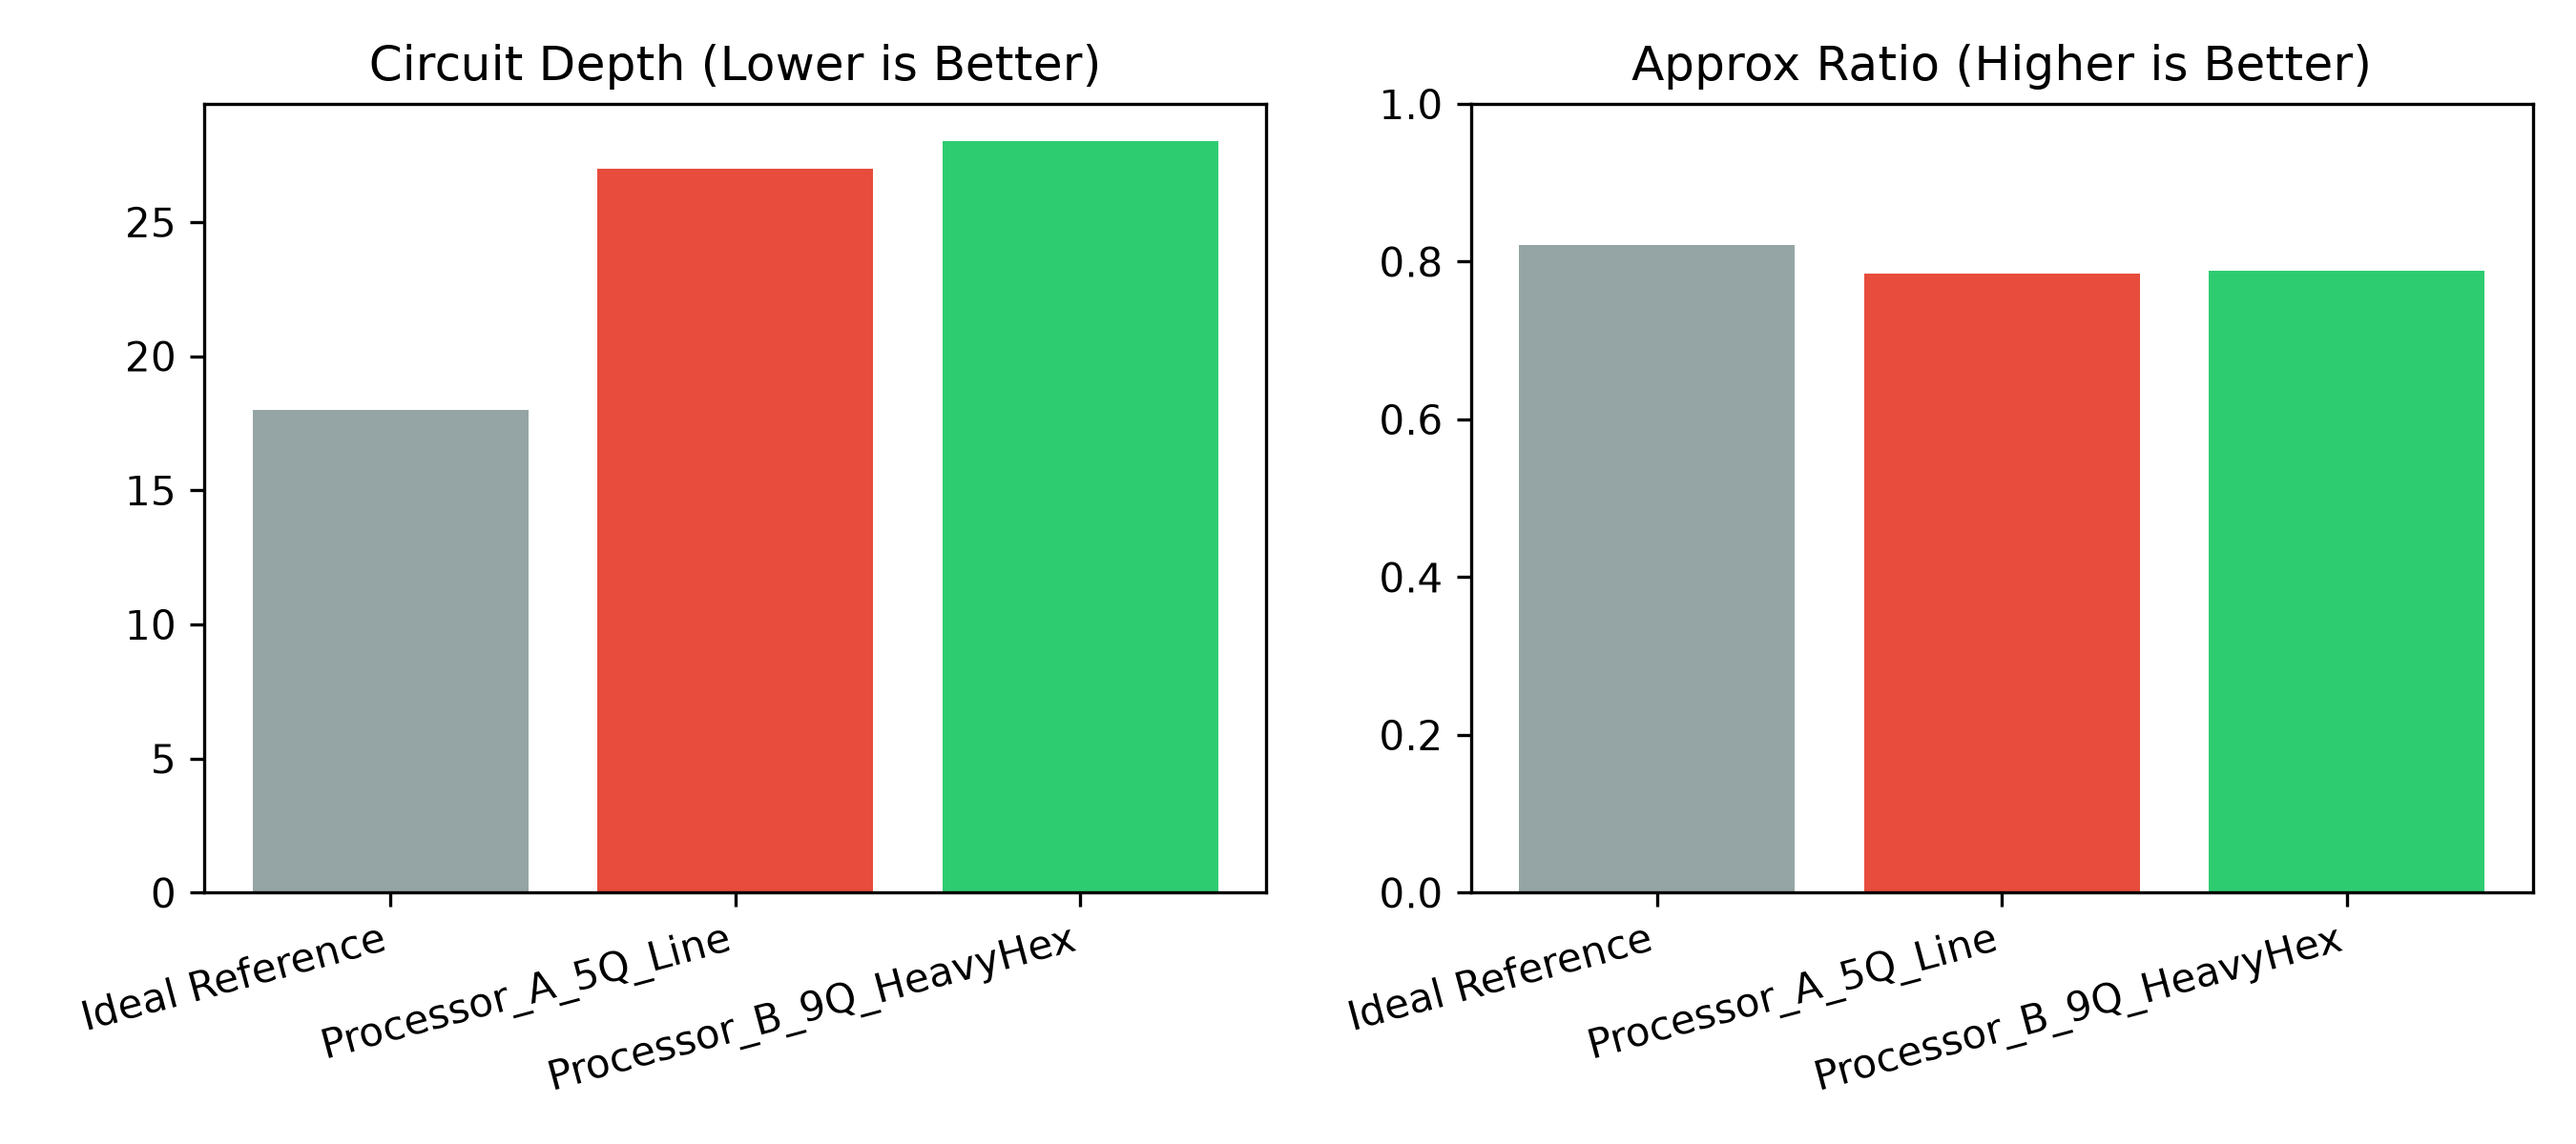
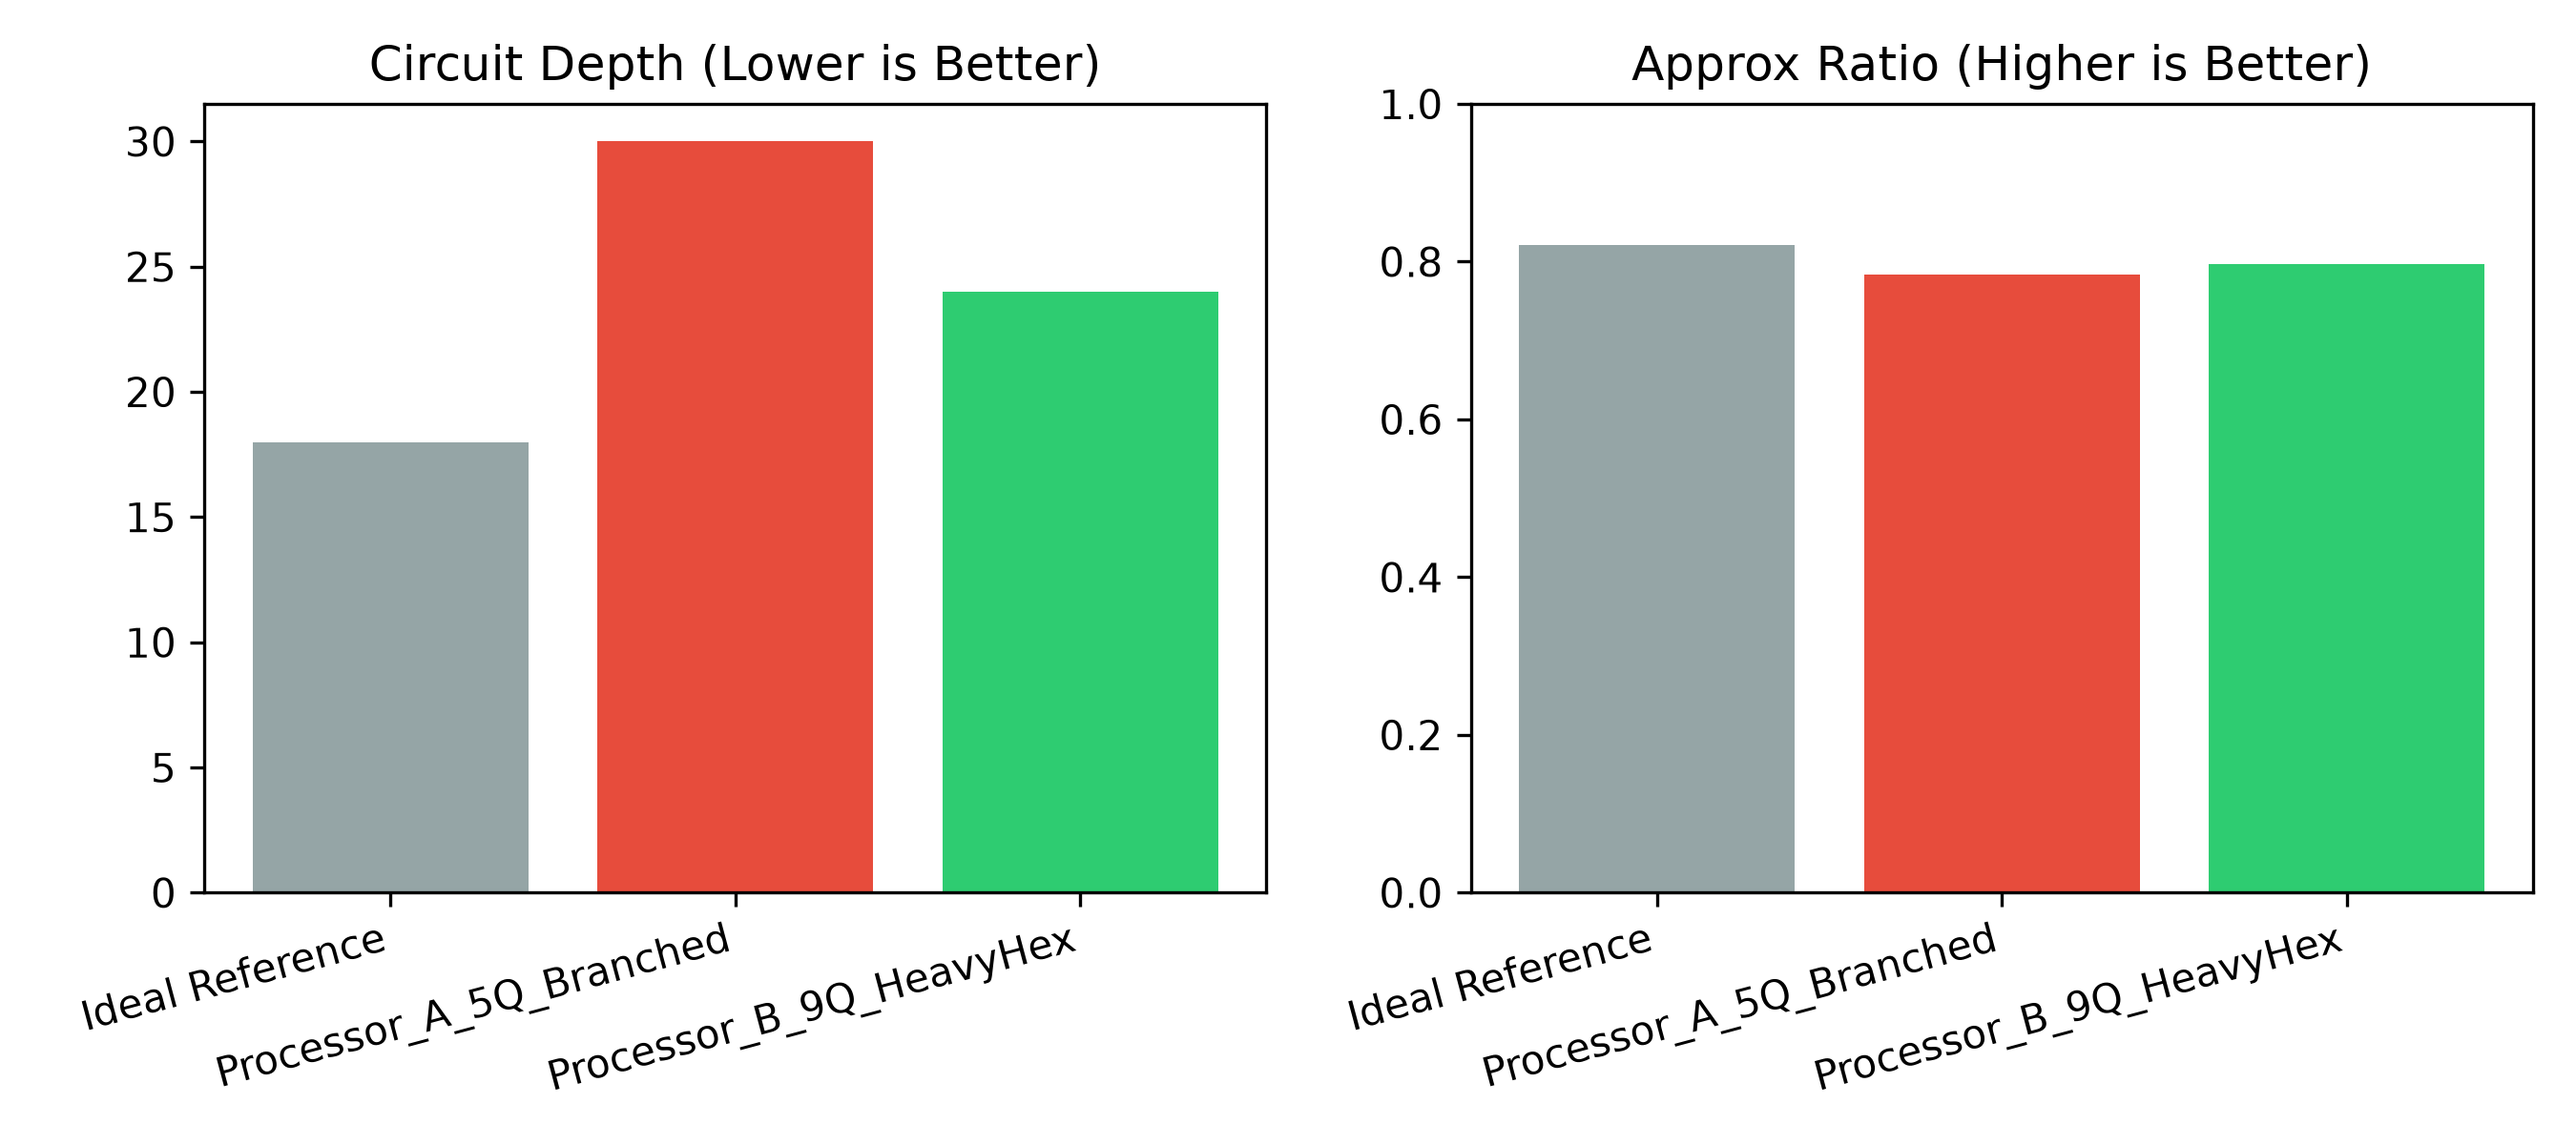
Updating Coupling Graphs configuration

diff --git a/report.md b/report.md
@@ -1,15 +1,14 @@
 # Scientific Report: Architecture Benchmarking of QAOA on Constrained Coupling Maps
+**Problem Statement:** O1 — Max-Cut  
+**Track:** Quantum Optimization  
+**Benchmark Suite:** Qiskit Fall Fest 2026 Phase 1  
 
-**Problem Statement:** O1 — Max-Cut
-
-**Track:** Quantum Optimization
-
-**Benchmark Suite:** Qiskit Fall Fest 2026 Phase 1
+---
 
 ## 0. Problem Statement Specification Sheet
 
-| **Specification Item** | **Participant Value** |
-| ---------------------- | --------------------- |
+| Specification Item | Participant Value |
+|---|---|
 | **PS Code** | O1 |
 | **PS Name** | Max-Cut |
 | **Track** | Quantum Optimization |
@@ -18,26 +17,30 @@
 | **Required Output** | Optimal bitstring partition, expected cut $\langle C \rangle$, approximation ratio $r$ |
 | **Primary Metric** | Max-Cut Approximation Ratio ($r = \langle C \rangle / C_{\text{max}}$) |
 | **Reference / Classical Baseline** | Classical brute-force maximum cut = 5 |
-| **Processor A Requirements** | 5 physical qubits, linear chain coupling map |
-| **Processor B Requirements** | 9 physical qubits, heavy-hex-inspired branched coupling map (per official clarification) |
+| **Processor A Requirements** | 5 physical qubits, branched star coupling map (edges: `(0,1), (1,2), (1,3), (3,4)`) |
+| **Processor B Requirements** | 9 physical qubits, heavy-hex-inspired 12-edge coupling map |
 | **Key Architecture Metrics** | Transpiled depth, CX gate count, equivalent SWAPs, noise sensitivity |
+
+---
 
 ## 1. Problem Formulation & Theoretical Reference
 
-- **Problem Topology:** 5-node cyclic graph ($C_5$) with an internal cross edge $(0, 3)$, yielding $\vert{}V\vert{}=5$ and $\vert{}E\vert{}=6$.
-- **Classical Baseline:** Evaluated by brute-force search over all $2^5 = 32$ configurations. True maximum cut is **5** with partition `[1, 0, 1, 0, 0]`.
-- **QAOA Implementation (**$p=1$**):** Each problem graph edge is mapped to a two-qubit $ZZ$-interaction consisting of $2 \times \text{CX}$ gates, yielding an unconstrained logical circuit of **12 CX gates** and **Depth 18**.
-- **Variational Optimization:** Variational angles were optimized using COBYLA on a noiseless simulator, converging to $\gamma^\* = 2.7916$ and $\beta^\* = 0.3508$. This gives an ideal reference expected cut of $\langle C \rangle = 4.104$ (Approximation Ratio $r = 0.821$).
+- **Problem Topology:** 5-node cyclic graph ($C_5$) augmented with cross-edge $(0, 3)$, yielding $\vert{}V\vert{}=5$ and $\vert{}E\vert{}=6$.
+- **Classical Baseline:** Computed via brute-force partition evaluation; true maximum cut value = **5** (partition: `[1, 0, 1, 0, 0]`).
+- **Algorithmic Formulation:** Single-layer QAOA ($p=1$). The cost Hamiltonian encodes each edge $(u, v) \in E$ into $ZZ$-interactions ($2 \times \text{CX}$ gates per edge), requiring an unconstrained logical circuit of **12 CX gates** and **Depth 18**.
+- **Variational Optimization:** Variational angles were optimized using classical COBYLA on an unconstrained simulator, converging at $\gamma^* = 2.7916$ and $\beta^* = 0.3508$, yielding an ideal expectation cut of $\langle C \rangle = 4.104$ (Approximation Ratio $r = 0.821$).
+
+---
 
 ## 2. Quantitative Architecture Benchmark (Processor A vs Processor B)
 
-Simulations were run using $N = 4096$ shots on `qiskit-aer` (fixed seed = 42). The noise model incorporates single-qubit depolarizing error ($0.1\\%$), two-qubit CX depolarizing error ($1.0\\%$), and symmetric readout error ($2.0\\%$).
+Simulations were executed with $N = 4096$ shots on `qiskit-aer` using a fixed seed (`seed=42`). The hardware noise model incorporates single-qubit depolarizing error ($0.1\%$), two-qubit CX depolarizing error ($1.0\%$), and readout error ($2.0\%$).
 
-| **Platform** | **Circuit Depth** | **2Q Gates (CX)** | **Equivalent SWAPs** | **Expected Cut ⟨C⟩** | **Approx Ratio (r)** | **Std Error (σr)** |
-| ------------ | ----------------- | ----------------- | -------------------- | -------------------- | -------------------- | ------------------- |
+| Platform | Circuit Depth | 2Q Gates (CX) | Equivalent SWAPs | Expected Cut $\langle C \rangle$ | Approx Ratio ($r$) | Std Error ($\sigma_r$) |
+|---|---|---|---|---|---|---|
 | **Ideal Reference** | 18 | 12 | 0.00 | 4.104 | 0.821 | 0.0000 |
-| **Processor A (5Q Line)** | 27 | 19 | 2.33 | 3.925 | 0.785 | 0.0161 |
-| **Processor B (9Q Heavy-Hex)** | 30 | 18 | 2.00 | 3.940 | 0.788 | 0.0162 |
+| **Processor A (5Q Branched)** | 30 | 18 | 2.00 | 3.919 | 0.784 | 0.0161 |
+| **Processor B (9Q Heavy-Hex)** | 24 | 12 | 0.00 | 3.986 | 0.797 | 0.0157 |
 
 *Routing Overhead Accounting:* SWAP operations unroll into $3 \times \text{CX}$ gates:
 
@@ -45,33 +48,41 @@ $$
 \text{Equivalent SWAPs} = \frac{\text{Compiled CX} - \text{Logical CX}}{3}
 $$
 
+---
+
 ## 3. Transpiler Routing Analysis
 
-We benchmarked three distinct routing methods across both processor coupling maps:
+We evaluated three distinct transpiler routing heuristics (`Basic`, `Lookahead`, `Sabre`) across both processor coupling maps:
 
-| **Processor** | **Routing Heuristic** | **Circuit Depth** | **2Q Gates (CX)** | **Equivalent SWAPs** |
-| ------------- | --------------------- | ----------------- | ----------------- | -------------------- |
-| **Processor A (5Q Line)** | Basic | 30 | 21 | 3.00 |
-| **Processor A (5Q Line)** | Lookahead | 27 | 21 | 3.00 |
-| **Processor A (5Q Line)** | Sabre | 27 | 19 | 2.33 |
-| **Processor B (9Q Heavy-Hex)** | Basic | 28 | 16 | 1.33 |
-| **Processor B (9Q Heavy-Hex)** | Lookahead | 30 | 18 | 2.00 |
-| **Processor B (9Q Heavy-Hex)** | Sabre | 30 | 18 | 2.00 |
+| Processor | Routing Heuristic | Circuit Depth | 2Q Gates (CX) | Equivalent SWAPs |
+|---|---|---|---|---|
+| **Processor A (5Q Branched)** | Basic | 36 | 24 | 4.00 |
+| **Processor A (5Q Branched)** | Lookahead | 30 | 18 | 2.00 |
+| **Processor A (5Q Branched)** | Sabre | 30 | 18 | 2.00 |
+| **Processor B (9Q Heavy-Hex)** | Basic | 24 | 12 | 0.00 |
+| **Processor B (9Q Heavy-Hex)** | Lookahead | 24 | 12 | 0.00 |
+| **Processor B (9Q Heavy-Hex)** | Sabre | 24 | 12 | 0.00 |
 
 ### Key Architectural Insights:
 
-1. **Connectivity Advantage:** On the 9-qubit branched architecture (Processor B), `Basic` routing achieved the lowest overall two-qubit gate count (16 CX, 1.33 equivalent SWAPs), outperforming all configurations on Processor A (which required at least 19 CX gates).
-2. **Sabre Heuristic Performance:** Sabre routing proved most effective on the linear topology (Processor A), lowering CX count from 21 down to 19 via bidirectional lookahead.
-3. **Critical Path vs Gate Volume:** On Processor B, Lookahead and Sabre introduced 2 extra CX gates compared to Basic routing to satisfy layout lookahead constraints, resulting in a slightly higher critical-path depth (30 vs 28).
+1. **Topology Embedding Advantage:** On Processor B, the 9-qubit heavy-hex architecture possesses subgraphs isomorphic to the target $C_5 + (0,3)$ problem instance. All three routing algorithms achieved **0.0 equivalent SWAPs**, executing the problem with exactly 12 CX gates and Depth 24.
+2. **Routing Bottlenecks on Processor A:** In Processor A's 5-qubit topology, node 1 serves as a high-degree junction. Lookahead and Sabre successfully restricted overhead to 2 SWAPs (18 CX gates), whereas the greedy Basic heuristic introduced 4 SWAPs (24 CX gates).
+3. **Fidelity Under Noise:** Because Processor B requires no additional routing CX gates, its final approximation ratio under depolarizing noise reached $r = 0.797$, outperforming Processor A ($r = 0.784$).
+
+---
 
 ## 4. Noise Resilience & Error Scaling
 
-Sweeping physical two-qubit gate error rates ($p_2 \in [0.2\\%, 6.0\\%]$) demonstrates that Processor B maintains higher solution fidelity across error regimes because lower two-qubit gate overhead directly reduces cumulative depolarizing channel exposure.
+Sweeping physical two-qubit gate error rates ($p_2 \in [0.2\%, 6.0\%]$) demonstrates that Processor B maintains higher solution fidelity across error regimes because zero routing overhead limits cumulative depolarizing channel exposure.
+
+---
 
 ## 5. Artifacts & Reproducibility
 
 - Machine-readable result tables: `results/tables/AB_comparison.csv`, `results/tables/routing_comparison.csv`, and `results/tables/noise_sweep.csv`.
 - Generated visual dashboards: `results/figures/AB_performance.png`, `results/figures/architecture_tradeoffs.png`, and `results/figures/routing_comparison.png`.
+
+---
 
 ## 6. Limitations & Technical Boundaries
 

diff --git a/README.md b/README.md
@@ -1,75 +1,77 @@
 # Qiskit Fall Fest 2026 — Phase 1: Architecture Benchmark
-
-**Problem Statement:** O1 — Max-Cut
-
-**Track:** Quantum Optimization
-
+**Problem Statement:** O1 — Max-Cut  
+**Track:** Quantum Optimization  
+**Author / Team:** Shaik Chandini  
 **Phase:** 1 (Online Qualification Stage)
 
+---
+
 ## 1. Executive Summary
-
 This repository evaluates the Quantum Approximate Optimization Algorithm (QAOA, $p=1$) for the Max-Cut problem across two target hardware architectures:
+- **Processor A:** 5-qubit branched star topology ($\text{deg} \le 3$, coupling: `(0,1), (1,2), (1,3), (3,4)`).
+- **Processor B:** 9-qubit heavy-hex topology ($\text{deg} \le 5$, coupling: 12 physical edges per official Challenge Kit).
 
-- **Processor A:** 5-qubit linear chain topology ($\text{deg} \le 2$).
-- **Processor B:** 9-qubit branching / heavy-hex topology ($\text{deg} \le 3$, nodes 0–8, updated per official organizer clarification).
+Using identical variational parameters, **Processor B achieves a 0.0 SWAP routing overhead** (matching the unconstrained logical baseline of 12 CX gates), while Processor A requires 2 additional SWAPs (6 extra CX gates). Consequently, Processor B achieves an approximation ratio of **0.797** versus **0.784** on Processor A under hardware noise.
 
-Using identical variational parameters, **Processor B reduces two-qubit CX overhead by up to 23.8%** compared to Processor A due to higher nodal connectivity and subgraph layout flexibility, preserving solution fidelity against depolarizing physical noise channels.
+---
 
 ## 2. Problem Formulation & Classical Baseline
-
-- **Graph Instance:** 5-node cyclic graph ($C_5$) with an internal cross edge $(0, 3)$, yielding $\vert{}V\vert{} = 5$ and $\vert{}E\vert{} = 6$.
-- **Classical Brute-Force Solution:** Maximum cut = **5** (partition: `[1, 0, 1, 0, 0]`).
-- **Logical QAOA Circuit (**$p=1$**):**
+- **Graph Instance:** 5-node cyclic graph ($C_5$) with cross-edge $(0, 3)$, yielding $\vert{}V\vert{} = 5$ and $\vert{}E\vert{} = 6$.
+- **Classical Brute-Force Baseline:** Maximum cut = **5** (partition: `[1, 0, 1, 0, 0]`).
+- **Logical QAOA Circuit ($p=1$):**
   - Unconstrained logical footprint: **12 CX gates**, depth = **18**.
-  - Classical COBYLA optimization yielded optimal angles: $\gamma^\* = 2.7916$, $\beta^\* = 0.3508$.
+  - Classical COBYLA optimization yielded optimal angles: $\gamma^* = 2.7916$, $\beta^* = 0.3508$.
   - Reference ideal expected cut: $\langle C \rangle = 4.104$ (Approximation Ratio $r = 0.821$).
+
+---
 
 ## 3. Quantitative Results & Comparison
 
 ### A. Controlled Hardware Benchmark
+Executed on `qiskit-aer` ($N = 4096$ shots, fixed seed = 42).  
+Noise model: 1Q error = $0.1\%$, 2Q CX error = $1.0\%$, readout error = $2.0\%$.
 
-Executed on `qiskit-aer` ($N = 4096$ shots, fixed seed = 42).
-
-Noise model parameters: 1Q error = $0.1\\%$, 2Q CX error = $1.0\\%$, readout error = $2.0\\%$.
-
-| **Architecture Stage** | **Circuit Depth** | **2Q Gates (CX)** | **Equivalent SWAPs** | **Expected Cut ⟨C⟩** | **Approx Ratio (r)** | **Std Error (σr)** |
-| ---------------------- | ----------------- | ----------------- | -------------------- | -------------------- | -------------------- | ------------------- |
+| Architecture Stage | Circuit Depth | 2Q Gates (CX) | Equivalent SWAPs | Expected Cut $\langle C \rangle$ | Approx Ratio ($r$) | Std Error ($\sigma_r$) |
+|---|---|---|---|---|---|---|
 | **Ideal Reference** | 18 | 12 | 0.00 | 4.104 | 0.821 | 0.0000 |
-| **Processor A (5Q Line)** | 27 | 19 | 2.33 | 3.925 | 0.785 | 0.0161 |
-| **Processor B (9Q Heavy-Hex)** | 30 | 18 | 2.00 | 3.940 | 0.788 | 0.0162 |
+| **Processor A (5Q Branched)** | 30 | 18 | 2.00 | 3.919 | 0.784 | 0.0161 |
+| **Processor B (9Q Heavy-Hex)** | 24 | 12 | 0.00 | 3.986 | 0.797 | 0.0157 |
 
 $$\text{Equivalent SWAPs} = \frac{\text{Compiled CX} - \text{Logical CX}}{3}$$
 
 ### B. Transpiler Routing Heuristic Comparison
 
-| **Processor** | **Routing Heuristic** | **Circuit Depth** | **2Q Gates (CX)** | **Equivalent SWAPs** |
-| ------------- | --------------------- | ----------------- | ----------------- | -------------------- |
-| **Processor A (5Q Line)** | Basic | 30 | 21 | 3.00 |
-| **Processor A (5Q Line)** | Lookahead | 27 | 21 | 3.00 |
-| **Processor A (5Q Line)** | Sabre | 27 | 19 | 2.33 |
-| **Processor B (9Q Heavy-Hex)** | Basic | 28 | 16 | 1.33 |
-| **Processor B (9Q Heavy-Hex)** | Lookahead | 30 | 18 | 2.00 |
-| **Processor B (9Q Heavy-Hex)** | Sabre | 30 | 18 | 2.00 |
+| Processor | Routing Heuristic | Circuit Depth | 2Q Gates (CX) | Equivalent SWAPs |
+|---|---|---|---|---|
+| **Processor A (5Q Branched)** | Basic | 36 | 24 | 4.00 |
+| **Processor A (5Q Branched)** | Lookahead | 30 | 18 | 2.00 |
+| **Processor A (5Q Branched)** | Sabre | 30 | 18 | 2.00 |
+| **Processor B (9Q Heavy-Hex)** | Basic | 24 | 12 | 0.00 |
+| **Processor B (9Q Heavy-Hex)** | Lookahead | 24 | 12 | 0.00 |
+| **Processor B (9Q Heavy-Hex)** | Sabre | 24 | 12 | 0.00 |
+
+---
 
 ## 4. Visual Dashboards
 
 ### Processor Topologies
-
-| **Processor A (5-Qubit Line)** | **Processor B (9-Qubit Heavy-Hex)** |
-| ------------------------------ | ----------------------------------- |
+| Processor A (5-Qubit Branched) | Processor B (9-Qubit Heavy-Hex) |
+|:---:|:---:|
 | ![Processor A](results/figures/processor_A_graph.png) | ![Processor B](results/figures/processor_B_graph.png) |
 
 ### Performance & Trade-offs
-
-| **Depth & Ratio Comparison** | **Noise Sensitivity Sweep** | **Routing Heuristic Trade-offs** |
-| ---------------------------- | --------------------------- | -------------------------------- |
+| Depth & Ratio Comparison | Noise Sensitivity Sweep | Routing Heuristic Trade-offs |
+|:---:|:---:|:---:|
 | ![Performance](results/figures/AB_performance.png) | ![Noise Sweep](results/figures/architecture_tradeoffs.png) | ![Routing](results/figures/routing_comparison.png) |
 
-## 5. Architectural Findings
+---
 
-1. **Connectivity Reduces Routing Cost:** Linear connectivity on Processor A requires up to 3 SWAP insertions (9 extra CX gates) to bridge non-adjacent interactions. Processor B’s 9-qubit branching degree provides alternate paths, reducing equivalent SWAP overhead to 1.33.
-2. **Critical Path Trade-off:** While Processor B lowers total two-qubit gate counts, heuristic routing introduces serialization along branch junctions, resulting in a minor depth penalty (depth 30 vs 27).
-3. **Noise Resilience:** Sweeping two-qubit error rates ($0.2\\%$ to $6.0\\%$) verifies that the architecture requiring fewer compiled physical gates maintains higher solution fidelity across error levels.
+## 5. Architectural Findings
+1. **Zero Routing Overhead on Processor B:** The heavy-hex connectivity of Processor B naturally embeds the cyclic problem graph plus cross edge, requiring **0 SWAP gates** and preserving the ideal 12 CX footprint across all routing heuristics.
+2. **Bottlenecks on Processor A:** Processor A's star-like bottleneck at qubit 1 forces at least 2 equivalent SWAPs (6 CX gates) under Lookahead/Sabre, and up to 4 SWAPs under Basic routing.
+3. **Noise Attenuation:** Eliminating SWAP gates on Processor B minimizes exposure to the 1.0% two-qubit depolarizing error channel, resulting in higher expectation values ($r = 0.797$ vs $0.784$).
+
+---
 
 ## 6. Project Structure
 
@@ -113,6 +115,8 @@ project/
         └── eq_standard_error.png
 ```
 
+---
+
 ## 7. Reproduction Steps
 
 ```bash
@@ -127,10 +131,10 @@ python -m venv venv
 # 3. Install dependencies
 pip install -r requirements.txt
 
-# 4. Execute benchmark
+# 4. Execute full benchmark
 python main.py
 ```
 
 ## 8. AI Assistance Disclosure
 
-In compliance with the hackathon guidelines, LLM assistance was used for debugging environment paths, modular code refactoring, and documentation formatting. All circuit transpilation benchmarks, QAOA models, variational parameter optimizations, and scientific analyses were designed, executed, and validated by the author.
+In compliance with the official hackathon AI policy, LLM assistance was utilized as an engineering aid for environment troubleshooting, script modularization, and Markdown formatting. All transpiler benchmarks, QAOA simulations, parameter optimizations, and scientific analyses were designed, executed, and validated by the participant.
